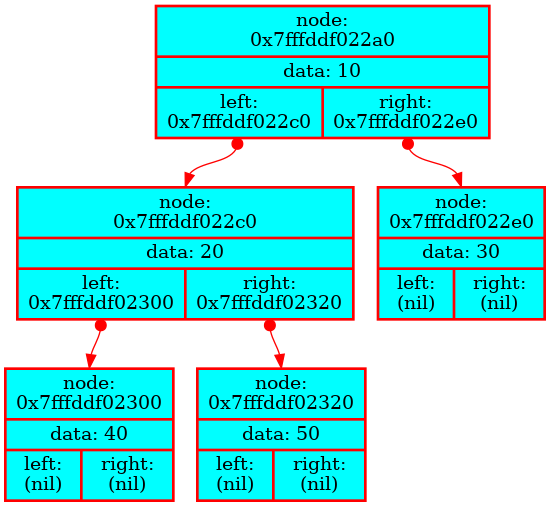
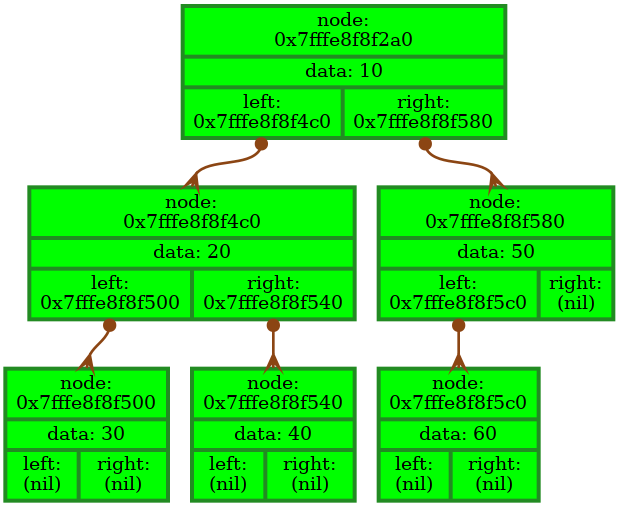
Tree read work, dump recolor

diff --git a/Tree/Tree.c b/Tree/Tree.c
@@ -57,22 +57,22 @@ int SetRBranch (Node* leaf, data_t push)
     return NO_ERR;
 }
 
-void PrintTree (Node* node, FILE* f)
+void PrintTree (const Node* const node, FILE* f)
 {
     fprintf (f, "\tNODE_%p[label = \"{ <_node_> node:\\n%p | data: %d | { <left> left:\\n%p | <right> right:\\n%p} }\"];\n", node, node, node->data, node->left, node->right);
     if (node->left)
     {
         PrintTree (node->left, f);
-        fprintf (f, "\tNODE_%p:left:s -> NODE_%p:_node_:n [dir = both, arrowtail = dot, color = red];\n", node, node->left);
+        fprintf (f, "\tNODE_%p:left:s -> NODE_%p:_node_:n [style = bold, dir = both, arrowhead = crow, arrowtail = dot, color = chocolate4];\n", node, node->left);
     }
     if (node->right)
     {
         PrintTree (node->right, f);
-        fprintf (f, "\tNODE_%p:right:s -> NODE_%p:_node_:n [dir = both, arrowtail = dot, color = red];\n", node, node->right);
+        fprintf (f, "\tNODE_%p:right:s -> NODE_%p:_node_:n [style = bold, dir = both, arrowhead = crow, arrowtail = dot, color = chocolate4];\n", node, node->right);
     }
 }
 
-int TreeDbgDump (Node* tree)
+int TreeDbgDump (const Node* const tree)
 {
     assert (tree != NULL);
     FILE* graph = fopen ("logs/graph_dump.dot", "w");
@@ -83,7 +83,7 @@ int TreeDbgDump (Node* tree)
     }
     fprintf (graph, "digraph G{\n");
     fprintf (graph, "\trankdir=TB;\n");
-    fprintf (graph, "\tnode[color=\"red\",shape=record, penwidth=2.0, style = filled, fillcolor = aqua];\n");
+    fprintf (graph, "\tnode[color = forestgreen,shape=record, penwidth=3.0, style = filled, fillcolor = green];\n");
     PrintTree (tree, graph);
     fprintf (graph, "}\n");
     fclose (graph);
@@ -91,12 +91,12 @@ int TreeDbgDump (Node* tree)
     sprintf (cmd_mes, "dot -Tpng logs/graph_dump.dot -o logs/Graph_Dump%zd.png", gdcounter);
     system (cmd_mes);
     free (cmd_mes);
-    //system ("rm logs/graph_dump.dot");
+    system ("rm logs/graph_dump.dot");
     gdcounter++;
     return NO_ERR;
 }
 
-int ScanTree (const char* filename, Node* tree)
+int ScanAllTree (const char* filename, Node* tree)
 {
     if (tree == NULL)
     {
@@ -108,10 +108,83 @@ int ScanTree (const char* filename, Node* tree)
     }
     long bufsz = 0;
     char* buffer = Read (filename, &bufsz);
-    Node* node = tree;
-    for (size_t i = 0; i < (size_t)bufsz; )
+    
+    if (RecScanTree (buffer, tree) == 0)
     {
+        return ERR;
+    }
+    else
+    {
+        return NO_ERR;
+    }
+}
 
+size_t RecScanTree (const char* text, Node* node)
+{
+    size_t i = 0;
+    i += SkipEnters (text + i);
+    if (text[i] != '{')
+    {
+        printf ("Not meet {, symbol = %c (%d)\n", text[i], text[i]);
+        return 0;
+    }
+    else
+    {
+        i++;
+    }
+    i += SkipSpaces (text + i);
+    i += ScanArg (text + i, node);
+    i += SkipSpaces (text + i);
+    if (text[i] == '}')
+    {
+        i++;
+        return i;
+    }
+    i += SkipEnters (text + i);
+    if (CheckEmpty (text + i) == 0)
+    {
+        SetLBranch (node, 0);
+        size_t dil = RecScanTree (text + i, node->left);
+        if (dil == 0)
+        {
+            return 0;
+        }
+        else
+        {
+            i += dil;
+        }
+    }
+    else
+    {
+        i += 2;
+    }
+    i += SkipEnters (text + i);
+    if (CheckEmpty (text + i) == 0)
+    {
+        SetRBranch (node, 0);
+        size_t dir = RecScanTree (text + i, node->right);
+        if (dir == 0)
+        {
+            return 0;
+        }
+        else
+        {
+            i += dir;
+        }
+    }
+    else
+    {
+        i += 2;
+    }
+    i += SkipEnters (text + i);
+    if (text[i] != '}')
+    {
+        return 0;
+    }
+    else
+    {
+        i++;
+        return i;
     }
 }
 
@@ -136,4 +209,32 @@ size_t SkipSpaces (const char* text)
     size_t i = 0;
     for (i = 0; text[i] == ' ' || text[i] == '\t'; i++) {;}
     return i;
+}
+
+size_t SkipEnters (const char* text)
+{
+    size_t i = 0;
+    for (i = 0; text[i] == ' ' || text[i] == '\t' || text[i] == '\n'; i++) {;}
+    return i;
+}
+
+size_t ScanArg (const char* text, Node* node)
+{
+    char* arg = (char*) calloc (10, sizeof (char));
+    sscanf (text, "%[0-9]", arg);
+    size_t len = strlen(arg);
+    sscanf (arg, "%d", &node->data);
+    free (arg);
+    return len;
+}
+
+int CheckEmpty (const char* text)
+{
+    size_t i = 0;
+    for (i = 0; text[i] != '}'; i++) {;}
+    if (i == 1)
+    {
+        return 1;
+    }
+    return 0;
 }

diff --git a/Tree/Tree.h b/Tree/Tree.h
@@ -3,6 +3,7 @@
 
 #include <stdio.h>
 #include <stdlib.h>
+#include <string.h>
 #include <assert.h>
 #include "../common.h"
 
@@ -27,14 +28,22 @@ int    SetLBranch  (Node* tree, data_t push);
 
 int    SetRBranch  (Node* tree, data_t push);
 
-int    TreeDbgDump (Node* tree);
+int    TreeDbgDump (const Node* const tree);
 
-int    TreeDump    (Node* tree);
+int    TreeDump    (const Node* const tree);
 
-int    ScanTree    (FILE* file, Node* tree);
+int    ScanAllTree (const char* filename, Node* tree);
+
+size_t RecScanTree (const char* text, Node* node);
 
 char*  Read        (const char* filename, long* ptrbufsz);
 
 size_t SkipSpaces  (const char* text);
+
+size_t SkipEnters  (const char* text);
+
+size_t ScanArg     (const char* text, Node* node);
+
+int    CheckEmpty  (const char* text);
 
 #endif

diff --git a/Tree/test.c b/Tree/test.c
@@ -3,10 +3,12 @@
 int main (void)
 {
     Node* tree = PlantTree (10);
-    SetLBranch (tree, 20);
+    /*SetLBranch (tree, 20);
     SetRBranch (tree, 30);
     SetLBranch (tree->left, 40);
     SetRBranch (tree->left, 50);
+    SetLBranch (tree->right, 60);*/
+    ScanAllTree ("test.txt", tree);
     TreeDbgDump (tree);
     ChopDown (tree);
     return 0;
